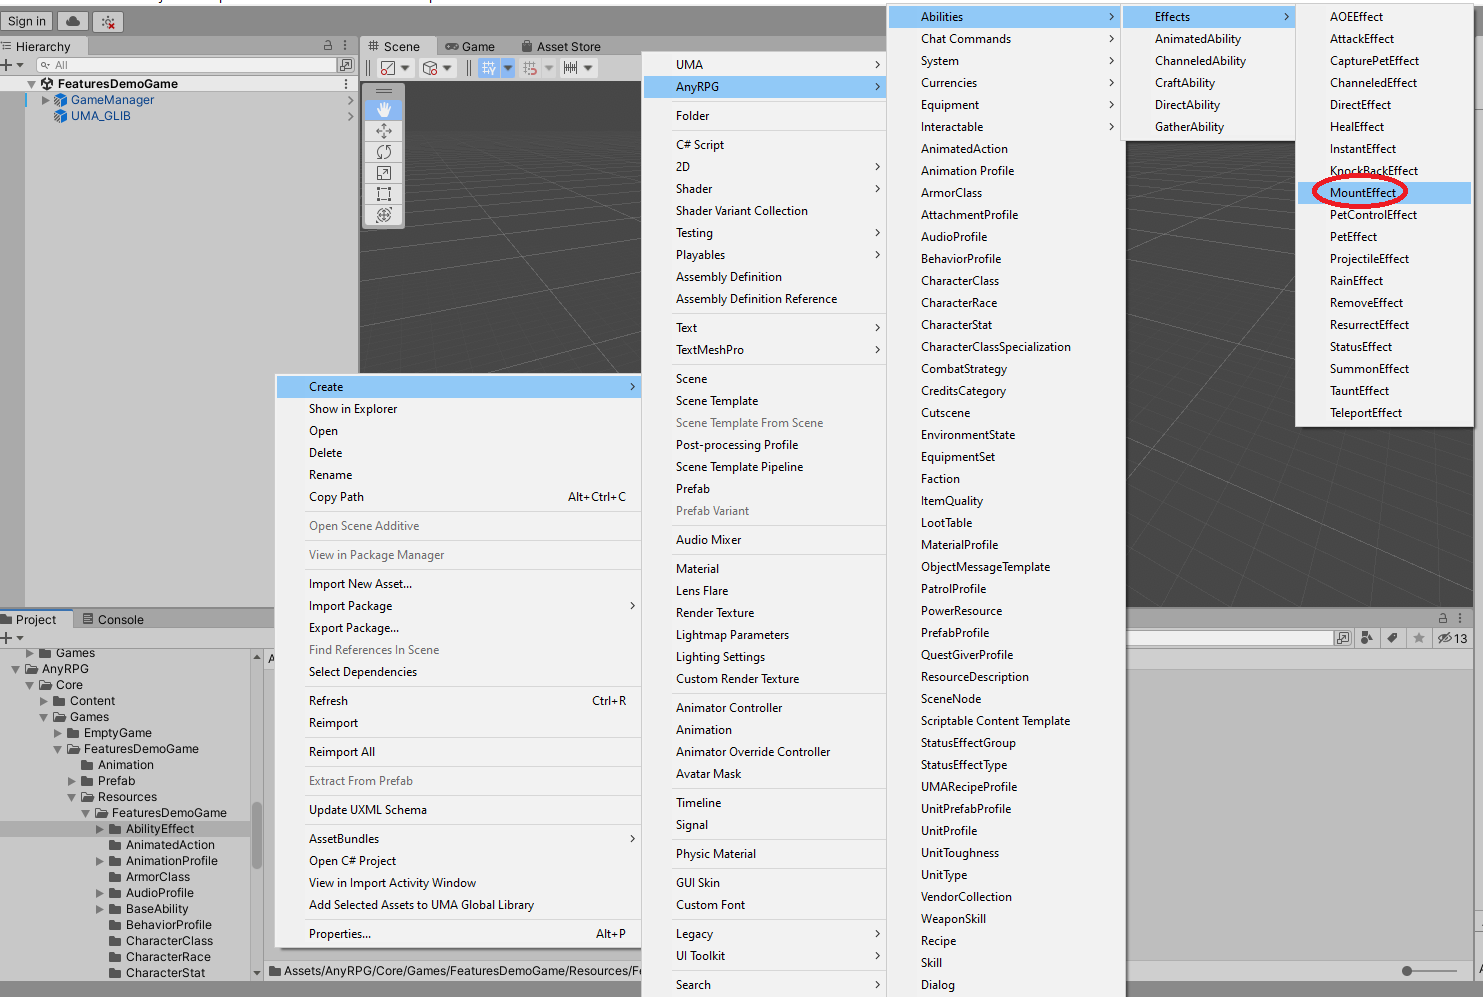
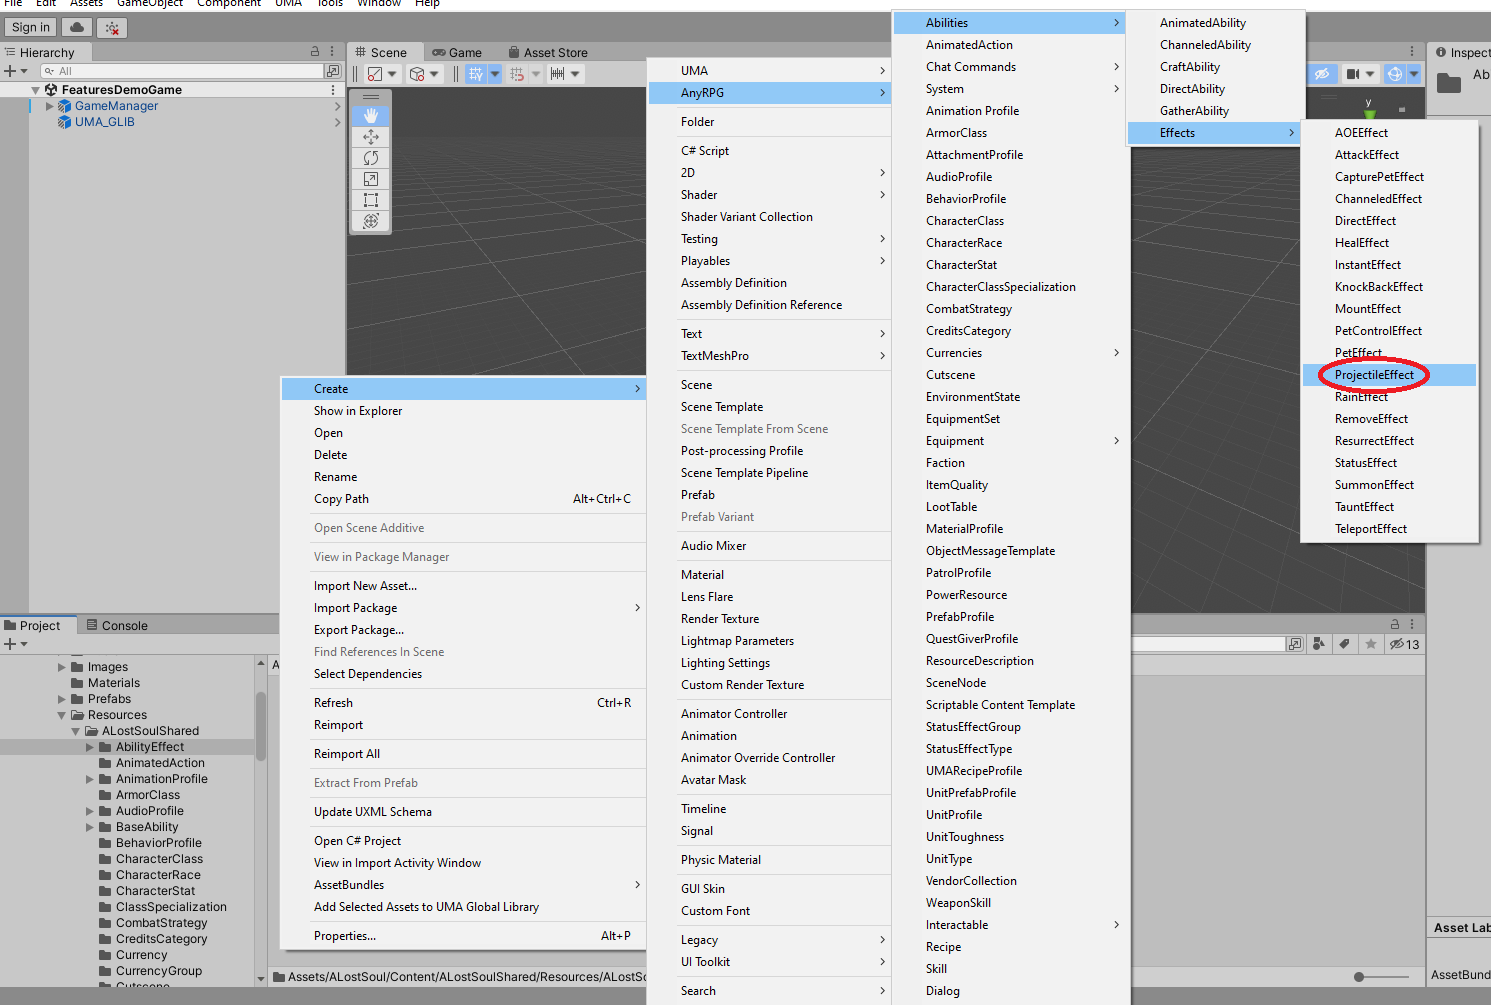
GitBook: [#103] add projectile effect documentation

diff --git a/scriptable-objects/ability-effects/projectile-effect.md b/scriptable-objects/ability-effects/projectile-effect.md
@@ -1,5 +1,28 @@
+---
+description: >-
+  A projectile effect spawns a projectile which moves toward a target, and casts
+  subsequent effects when it hits the target.
+---
+
 # Projectile Effect
 
-{% hint style="info" %}
-Coming Soon
-{% endhint %}
+## Creation
+
+To create a projectile effect, find (or create) the _GameName/Resources/GameName/AbilityEffect_ folder (or any subfolder) in the project tab and right click.  Choose _Create > AnyRPG > Abilities > Effects > ProjectileEffect_.
+
+![](../../.gitbook/assets/image.png)
+
+## Properties
+
+In addition to all the properties of its parent class, [Fixed Length Effect](./#fixed-length-effect-properties), projectile effects have the following properties.
+
+| Name                         | Description                                                                                                                               |
+| ---------------------------- | ----------------------------------------------------------------------------------------------------------------------------------------- |
+| Projectile Speed             | The speed the projectile will travel while moving toward its target.                                                                      |
+| Flight Audio Profile Names   | A list of [Audio Profiles](../audio-profile.md) containing audio clips to play while the projectile is traveling.                         |
+| Random Flight Audio Profiles | If true, a random [Audio Profile](../audio-profile.md) from the _Flight Audio Profile Names_ list will be played, instead of all of them. |
+
+## Next steps
+
+* Add a projectile effect to an [Ability](../abilities/).
+* Add a projectile effect to another [Ability Effect](./) to chain them together.

diff --git a/scriptable-objects/ability-effects/mount-effect.md b/scriptable-objects/ability-effects/mount-effect.md
@@ -8,9 +8,9 @@ description: A mount effect allows a character to summon and ride a mount.
 
 To create a mount effect, find (or create) the _GameName/Resources/GameName/AbilityEffect_ folder (or any subfolder) in the project tab and right click.  Choose _Create > AnyRPG > Abilities > Effects > MountEffect_.
 
-![](../../.gitbook/assets/image.png)
+![](<../../.gitbook/assets/image (5).png>)
 
-### Properties
+## Properties
 
 In addition to all the properties of its parent class, [Status Effect](status-effect.md), mount effects have the following properties.
 

diff --git a/scriptable-objects/ability-effects/knock-back-effect.md b/scriptable-objects/ability-effects/knock-back-effect.md
@@ -10,9 +10,9 @@ description: >-
 
 To create a knock back effect, find (or create) the _GameName/Resources/GameName/AbilityEffect_ folder (or any subfolder) in the project tab and right click.  Choose _Create > AnyRPG > Abilities > Effects > KnockBackEffect_.
 
-![](<../../.gitbook/assets/image (5).png>)
+![](<../../.gitbook/assets/image (5) (1).png>)
 
-### Properties
+## Properties
 
 In addition to all the properties of its parent class, [Fixed Length Effect](knock-back-effect.md), knock back effects have the following properties.
 

diff --git a/scriptable-objects/items/equipment.md b/scriptable-objects/items/equipment.md
@@ -8,7 +8,7 @@ description: Equipment is any type of item that can be equipped on a character.
 
 To create equipment, find (or create) the _GameName/Resources/GameName/Item/Equipment_ folder (or any subfolder) in the project tab and right click.  Choose _Create > AnyRPG > Inventory > Equipment > Equipment_.
 
-![](<../../.gitbook/assets/image (5) (1).png>)
+![](<../../.gitbook/assets/image (5) (1) (2).png>)
 
 ## Properties
 

diff --git a/scriptable-objects/ability-effects/aoe-effect.md b/scriptable-objects/ability-effects/aoe-effect.md
@@ -13,7 +13,7 @@ To create an aoe effect, find (or create) the _GameName/Resources/GameName/Abili
 
 ![](<../../.gitbook/assets/image (2) (3).png>)
 
-### Properties
+## Properties
 
 In addition to all the properties of its parent class, [Fixed Length Effect](./#fixed-length-effect-properties), aoe effects have a single property, _AOE Properties_, with the following fields.
 

diff --git a/scriptable-objects/ability-effects/capture-pet-effect.md b/scriptable-objects/ability-effects/capture-pet-effect.md
@@ -12,7 +12,7 @@ To create a capture pet effect, find (or create) the _GameName/Resources/GameNam
 
 ![](<../../.gitbook/assets/image (13).png>)
 
-### Properties
+## Properties
 
 In addition to all the properties of its parent class, [Fixed Length Effect](./#fixed-length-effect-properties), capture pet effects have the following properties.
 

diff --git a/scriptable-objects/ability-effects/channeled-effect.md b/scriptable-objects/ability-effects/channeled-effect.md
@@ -12,7 +12,7 @@ To create a channeled effect, find (or create) the _GameName/Resources/GameName/
 
 ![](<../../.gitbook/assets/image (14).png>)
 
-### Properties
+## Properties
 
 In addition to all the properties of its parent class, [Fixed Length Effect](./#fixed-length-effect-properties), channeled effects have the following properties.
 

diff --git a/scriptable-objects/ability-effects/direct-effect.md b/scriptable-objects/ability-effects/direct-effect.md
@@ -12,7 +12,7 @@ To create a direct effect, find (or create) the _GameName/Resources/GameName/Abi
 
 ![](<../../.gitbook/assets/image (1).png>)
 
-### Properties
+## Properties
 
 Direct Effects do not have any properties other than the properties provided by their parent class, [Fixed Length Effect](./#fixed-length-effect-properties).
 

diff --git a/scriptable-objects/ability-effects/attack-effect.md b/scriptable-objects/ability-effects/attack-effect.md
@@ -12,7 +12,7 @@ To create an attack effect, find (or create) the _GameName/Resources/GameName/Ab
 
 ![](<../../.gitbook/assets/image (3) (5).png>)
 
-### Properties
+## Properties
 
 In addition to all the properties of its parent class, [Amount Effect](./#amount-effect-properties), attack effects have the following properties.
 

diff --git a/scriptable-objects/ability-effects/instant-effect.md b/scriptable-objects/ability-effects/instant-effect.md
@@ -12,7 +12,7 @@ To create an instant effect, find (or create) the _GameName/Resources/GameName/A
 
 ![](<../../.gitbook/assets/image (2).png>)
 
-### Properties
+## Properties
 
 Instant Effects do not have any properties other than the properties of its parent class, [Fixed Length Effect](./#fixed-length-effect-properties).
 

diff --git a/scriptable-objects/ability-effects/pet-control-effect.md b/scriptable-objects/ability-effects/pet-control-effect.md
@@ -13,7 +13,7 @@ To create a pet control effect, find (or create) the _GameName/Resources/GameNam
 
 ![](<../../.gitbook/assets/image (3).png>)
 
-### Properties
+## Properties
 
 In addition to all the properties of its parent class, [Status Effect](status-effect.md), pet control effects have the following properties.
 

diff --git a/scriptable-objects/ability-effects/heal-effect.md b/scriptable-objects/ability-effects/heal-effect.md
@@ -10,7 +10,7 @@ To create a heal effect, find (or create) the _GameName/Resources/GameName/Abili
 
 ![](<../../.gitbook/assets/image (4).png>)
 
-### Properties
+## Properties
 
 Heal Effects do not have any properties other than the properties of its parent class, [Amount Effect](./#amount-effect-properties).
 
